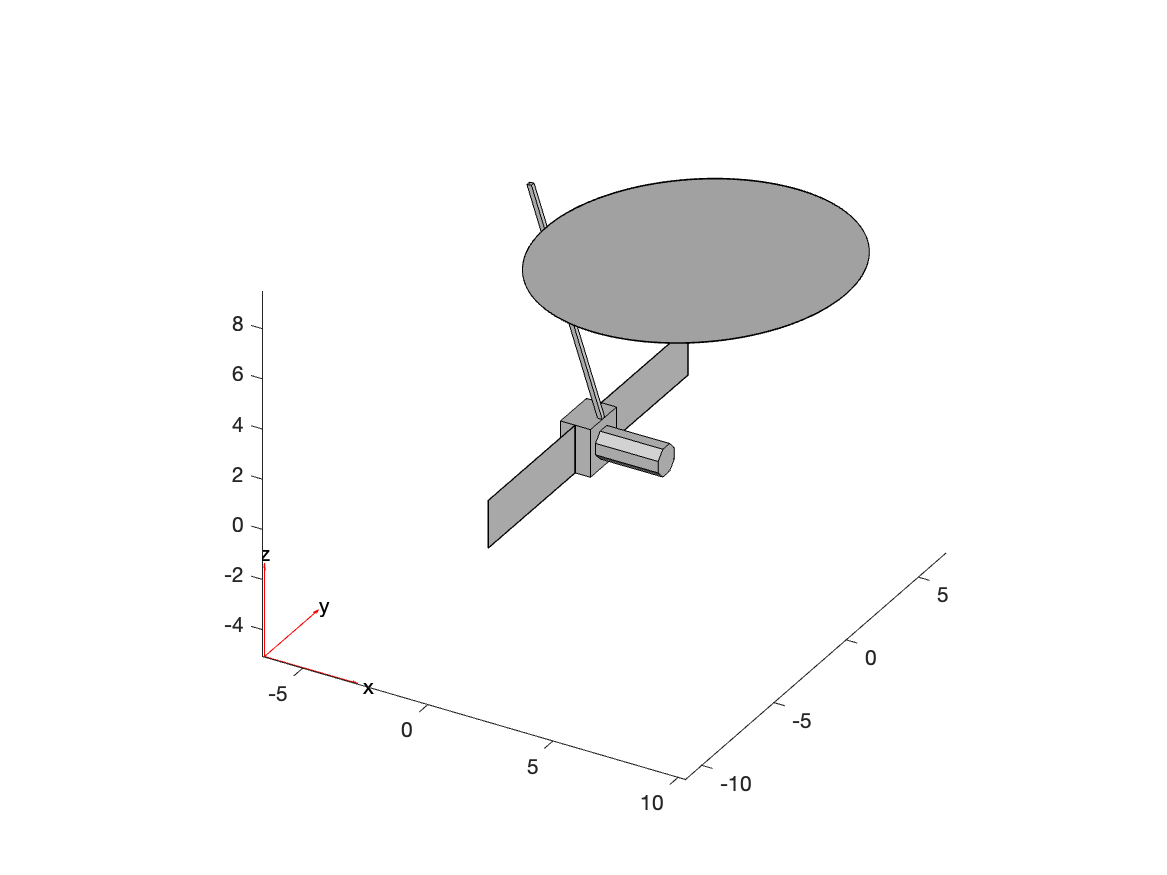
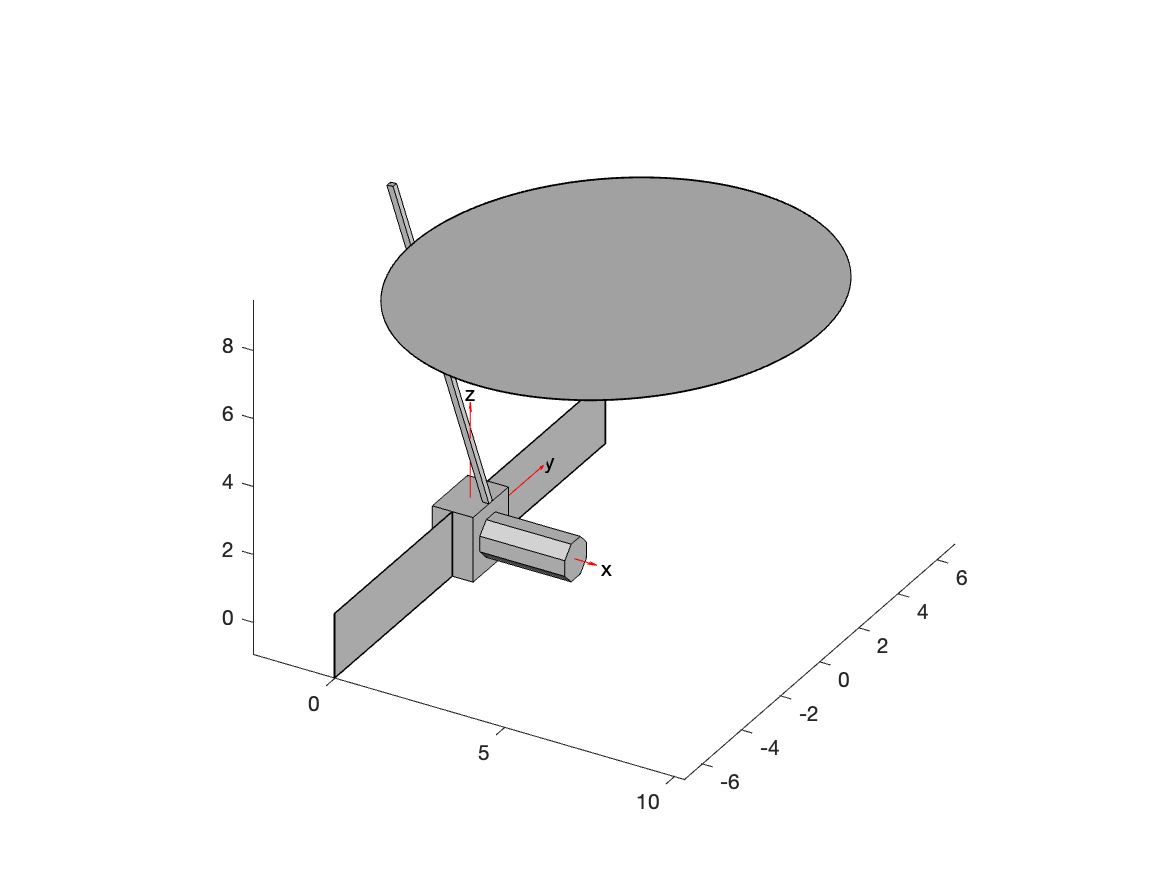
Add MOI function

diff --git a/src/computeMOI.m b/src/computeMOI.m
@@ -1,0 +1,64 @@
+function I = computeMOI(filename)
+    data = readmatrix(filename);
+    x = data(:,1);
+    y = data(:,2);
+    z = data(:,3);
+    m = data(:,4);
+    m_bus = m(1);
+    m_RIS = m(2);
+    m_panel = m(3);
+    m_RAB = m(5);
+    m_RAR = m(6);
+
+    L_bus = 1.2;
+    W_bus = 1.8;
+    H_bus = 1.9;
+    I_bus = m_bus * [(W_bus^2 + H_bus^2) / 12, 0, 0; ...
+        0, (L_bus^2 + H_bus^2) / 12, 0; ...
+        0, 0, (L_bus^2 + W_bus^2) / 12];
+
+    L_RIS = 2.5;
+    S_RIS = 0.459;
+    a_RIS = S_RIS / (2 * tan(deg2rad(22.5)));
+    R_avg = mean([a_RIS sqrt(a_RIS^2 + (S_RIS / 2)^2)]);
+    I_RIS = m_RIS * [S_RIS^2 / 24 + a_RIS^2 / 2, 0, 0; ...
+        0, L_RIS^2 / 12 + R_avg^2 / 4, 0; ...
+        0, 0, L_RIS^2 / 12 + R_avg^2 / 4];
+
+    W_panel = 6;
+    H_panel = 1.9;
+    I_panel = m_panel * [(W_panel^2 + H_panel^2) / 12, 0, 0; ...
+        0, H_panel^2 / 12, 0; ...
+        0, 0, W_panel^2 / 12];
+
+    L_RAB = 0.1778;
+    W_RAB = 0.1778;
+    H_RAB = 9;
+    deg_RAB = -18;
+    rot_RAB = [cosd(deg_RAB), 0, sind(deg_RAB); ...
+        0, 1, 0; ...
+        -sind(deg_RAB), 0, cosd(deg_RAB)];
+    I_RAB = m_RAB * [(W_RAB^2 + H_RAB^2) / 12, 0, 0; ...
+        0, (L_RAB^2 + H_RAB^2) / 12, 0; ...
+        0, 0, (L_RAB^2 + W_RAB^2) / 12];
+    I_RAB_rot = rot_RAB * I_RAB * rot_RAB';
+
+    R_RAR = 6;
+    deg_RAR = -3.87;
+    rot_RAR = [cosd(deg_RAR), 0, sind(deg_RAR); ...
+        0, 1, 0; ...
+        -sind(deg_RAR), 0, cosd(deg_RAR)];
+    I_RAR = m_RAR * [R_RAR^2 / 4, 0, 0; ...
+        0, R_RAR^2 / 4, 0; ...
+        0, 0, R_RAR^2 / 2];
+    I_RAR_rot = rot_RAR * I_RAR * rot_RAR';
+
+    I_c = {I_bus, I_RIS, I_panel, I_panel, I_RAB_rot, I_RAR_rot};
+    I = zeros([3 3]);
+    for i = 1:length(I_c)
+        D = [y(i)^2 + z(i)^2, -x(i) * y(i), -x(i) * z(i); ...
+            -y(i) * x(i), x(i)^2 + z(i)^2, -y(i) * z(i); ...
+            -z(i) * x(i), -y(i) * z(i), x(i)^2 + y(i)^2];
+        I = I + I_c{i} + m(i) * D;
+    end
+end

diff --git a/src/ps1.m b/src/ps1.m
@@ -1,6 +1,9 @@
 %% Center of mass
 cm = computeCM("res/mass.csv");
 
+%% Moment of inertia
+I = computeMOI("res/mass.csv");
+
 %% Surface properties
 [barycenter, normal, area] = surfaces("res/area.csv");
 
@@ -8,4 +11,14 @@ cm = computeCM("res/mass.csv");
 figure
 gm = importGeometry("res/NISAR.stl");
 pdegplot(gm);
+quiver = findobj(gca,'type','Quiver');
+textx = findobj(gca,'type','Text','String','x');
+texty = findobj(gca,'type','Text','String','y');
+textz = findobj(gca,'type','Text','String','z');
+set(quiver,"XData",[0; 0; 0])
+set(quiver,"YData",[0; 0; 0])
+set(quiver,"ZData",[0; 0; 0])
+set(textx,"Position",[4 0 0])
+set(texty,"Position",[0 4 0])
+set(textz,"Position",[0 0 4])
 saveas(gcf,'Images/ps1_model.png');
